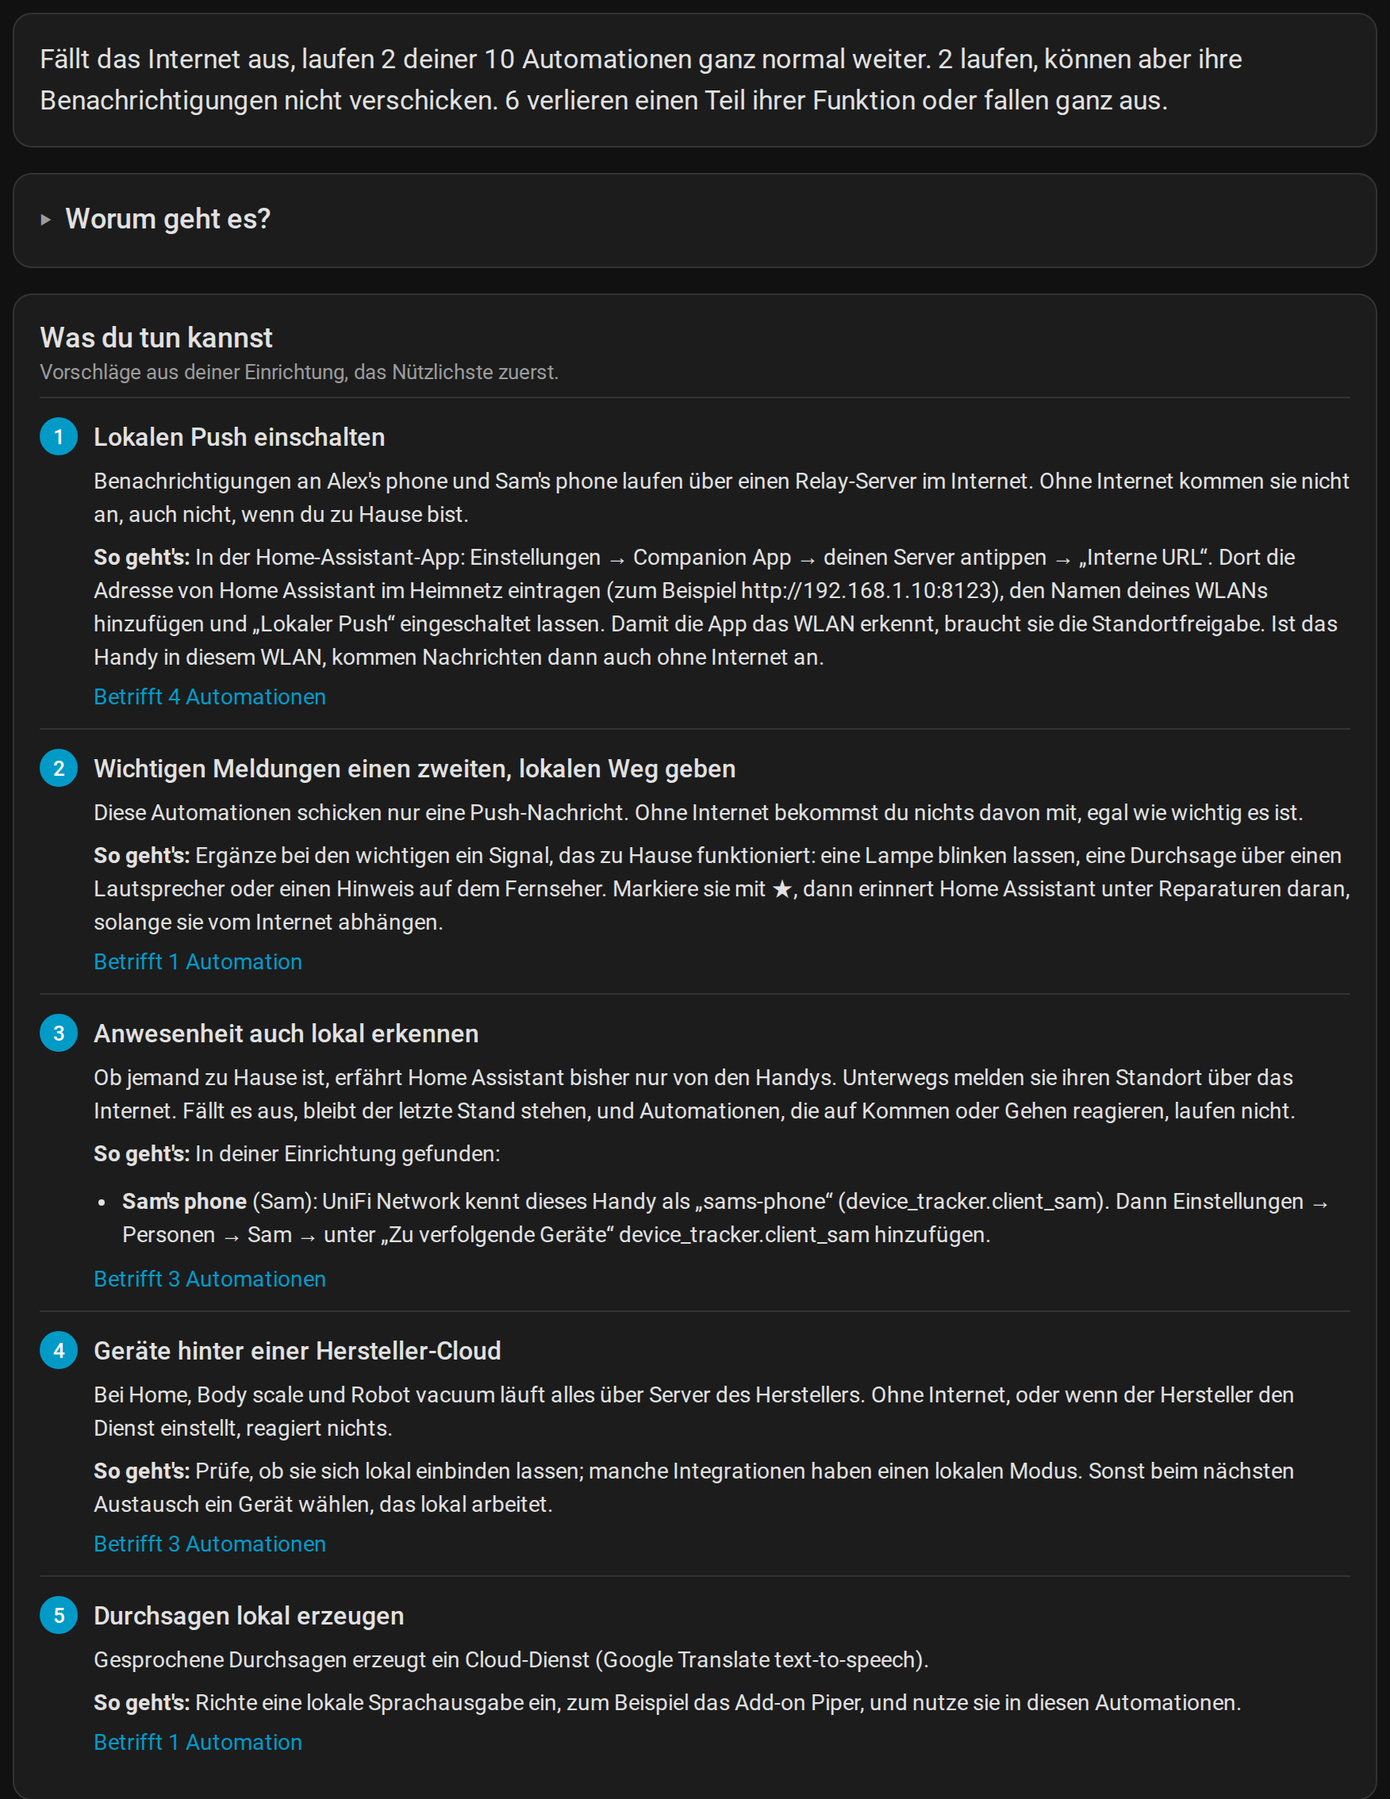
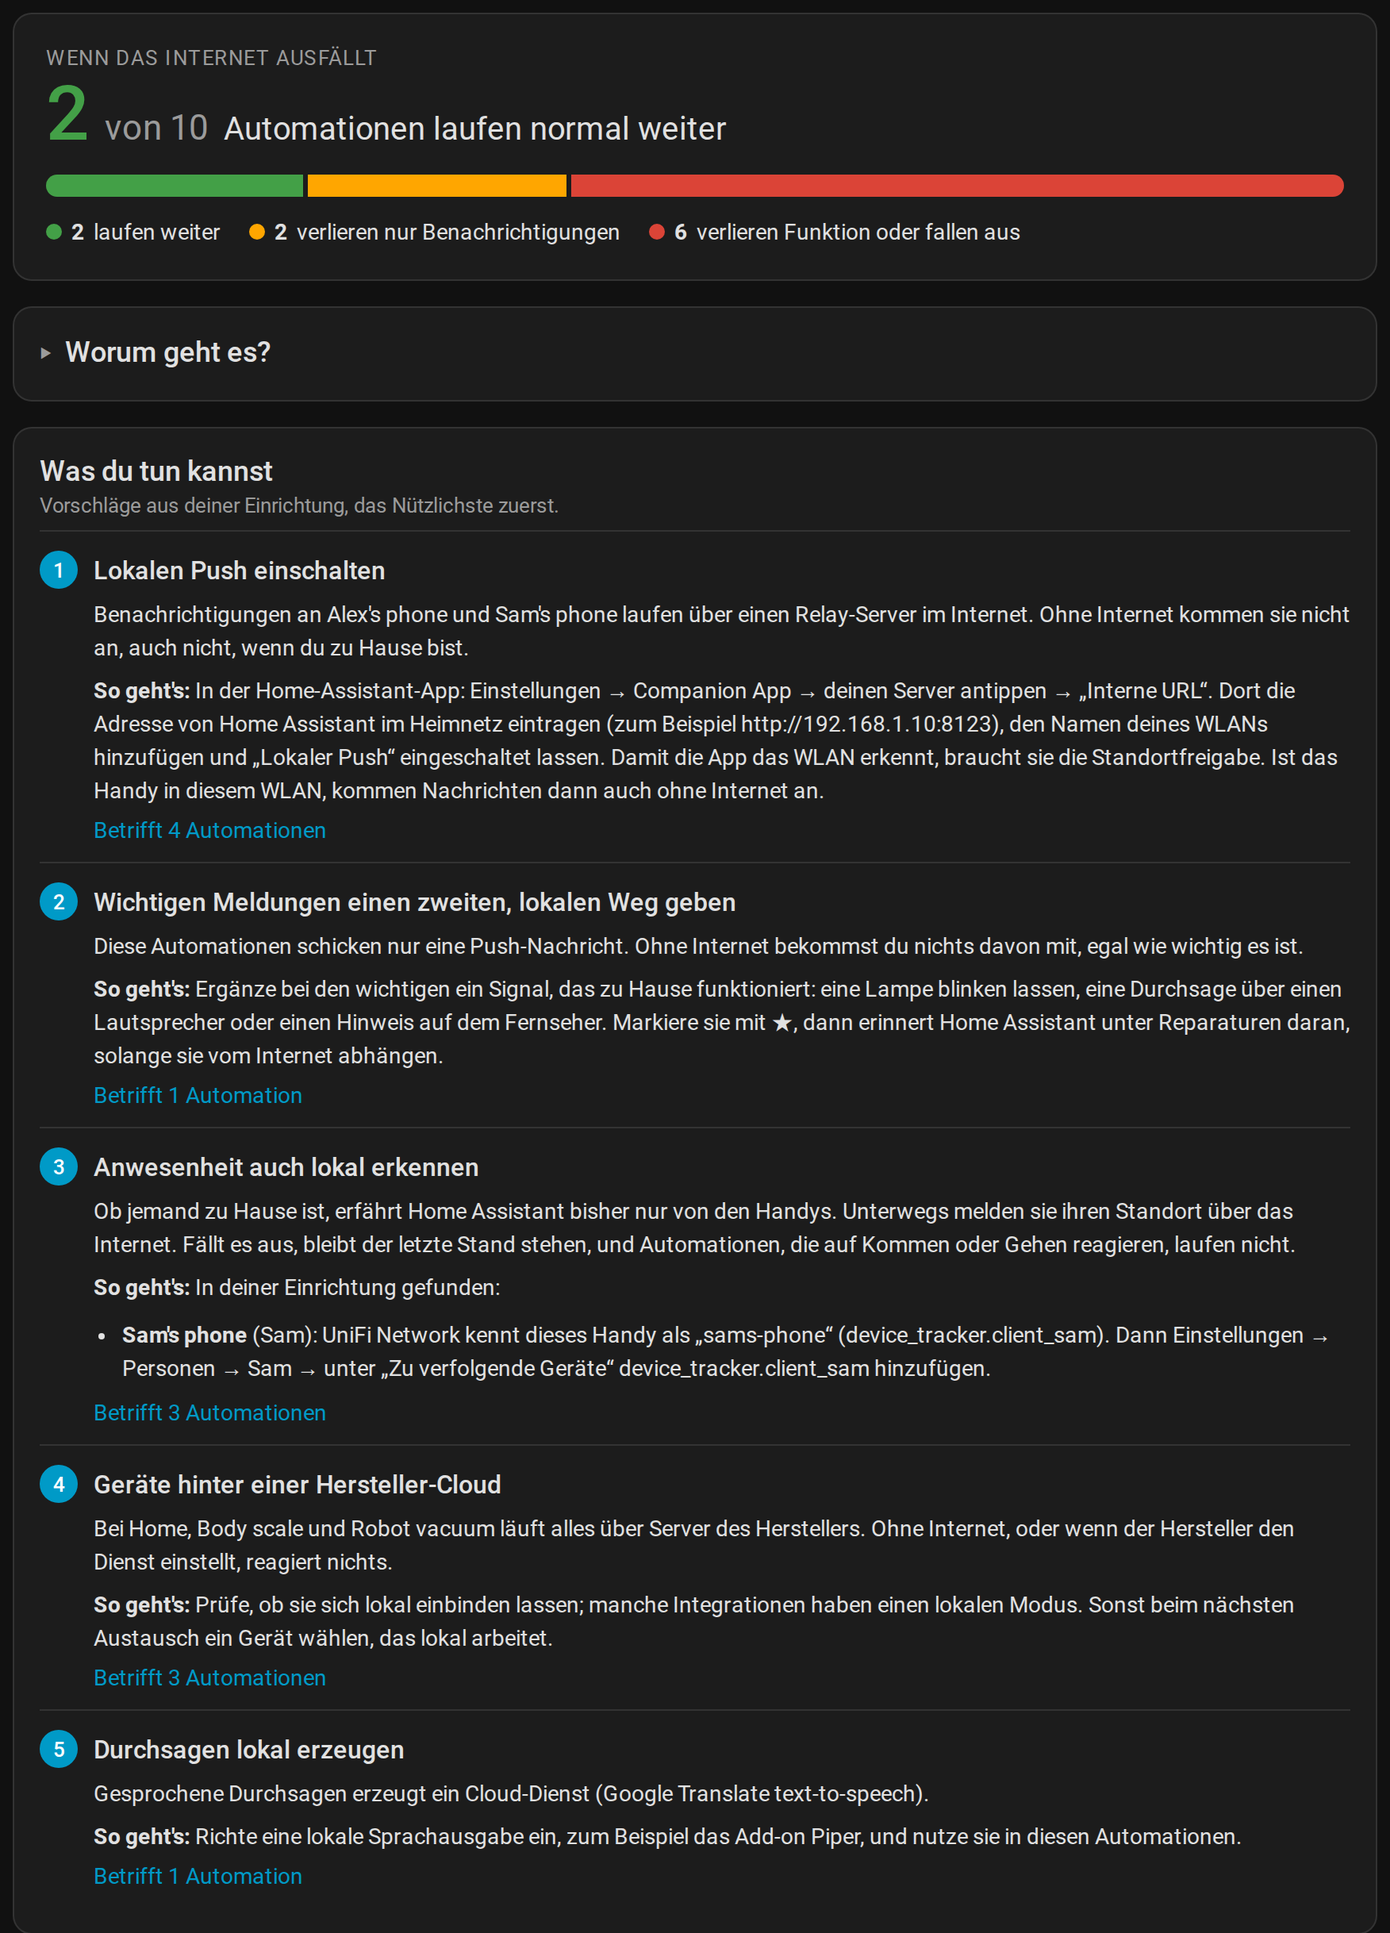
Show the overview as a number, a bar and a legend

Changed region(s): [[0.0308, 0.0, 0.9863, 0.9877]]

diff --git a/custom_components/unclouded/frontend/unclouded-panel.js b/custom_components/unclouded/frontend/unclouded-panel.js
@@ -29,10 +29,13 @@ const STRINGS = {
     decidedHint: "You classified these integrations yourself. You can change it here at any time.",
     integrationNoEntry: "entities without config entry",
     // Summary and explanation
-    summaryWorks: "If the internet goes down, {works} of your {total} automations keep working as usual.",
-    summaryNotify: "{n} still run but cannot send their notifications.",
-    summaryLoss: "{n} lose part of what they do or stop altogether.",
-    summaryUnknown: "{n} could not be checked completely.",
+    heroLabel: "If the internet goes down",
+    heroOf: "of {total}",
+    heroText: "automations keep working as usual",
+    legend_works: "keep working",
+    legend_notify: "only lose their notifications",
+    legend_loss: "lose function or stop",
+    legend_unknown: "not sure",
     summaryAllGood: "Everything runs inside your home. An internet outage does not affect your automations.",
     whatTitle: "What is this about?",
     whatText1:
@@ -162,10 +165,13 @@ const STRINGS = {
     decided: "Von dir festgelegt",
     decidedHint: "Diese Integrationen hast du selbst eingestuft. Hier kannst du es jederzeit ändern.",
     integrationNoEntry: "Entitäten ohne Einrichtung",
-    summaryWorks: "Fällt das Internet aus, laufen {works} deiner {total} Automationen ganz normal weiter.",
-    summaryNotify: "{n} laufen, können aber ihre Benachrichtigungen nicht verschicken.",
-    summaryLoss: "{n} verlieren einen Teil ihrer Funktion oder fallen ganz aus.",
-    summaryUnknown: "{n} ließen sich nicht vollständig prüfen.",
+    heroLabel: "Wenn das Internet ausfällt",
+    heroOf: "von {total}",
+    heroText: "Automationen laufen normal weiter",
+    legend_works: "laufen weiter",
+    legend_notify: "verlieren nur Benachrichtigungen",
+    legend_loss: "verlieren Funktion oder fallen aus",
+    legend_unknown: "unklar",
     summaryAllGood: "Alles läuft bei dir zu Hause. Ein Internetausfall betrifft deine Automationen nicht.",
     whatTitle: "Worum geht es?",
     whatText1:
@@ -398,24 +404,49 @@ class UncloudedPanel extends HTMLElement {
     return text.charAt(0).toUpperCase() + text.slice(1) + ".";
   }
 
+  // The overview: one big number, a bar split by what happens, and a legend that
+  // jumps to the first automation of each kind.
   _renderSummary() {
     const t = this._t;
     const all = this._automations;
-    const count = (fn) => all.filter(fn).length;
-    const works = count((a) => a.verdict === "works");
-    const notify = count((a) => a.only_notifications);
-    const unknown = count((a) => a.verdict === "unknown");
-    const loss = count((a) => ["fails", "degraded"].includes(a.verdict) && !a.only_notifications);
-    const lines =
-      works === all.length
-        ? [t.summaryAllGood]
-        : [
-            this._fmt(t.summaryWorks, { works, total: all.length }),
-            notify ? this._fmt(t.summaryNotify, { n: notify }) : "",
-            loss ? this._fmt(t.summaryLoss, { n: loss }) : "",
-            unknown ? this._fmt(t.summaryUnknown, { n: unknown }) : "",
-          ];
-    return `<p class="summary">${lines.filter(Boolean).map(esc).join(" ")}</p>`;
+    if (all.length && all.every((a) => a.verdict === "works"))
+      return `<section class="card hero"><p class="hero-good">${esc(t.summaryAllGood)}</p></section>`;
+    const kinds = {
+      works: (a) => a.verdict === "works",
+      notify: (a) => a.only_notifications,
+      loss: (a) => ["fails", "degraded"].includes(a.verdict) && !a.only_notifications,
+      unknown: (a) => a.verdict === "unknown",
+    };
+    const parts = Object.entries(kinds)
+      .map(([kind, fn]) => ({ kind, items: all.filter(fn) }))
+      .filter((p) => p.items.length);
+    const works = all.filter(kinds.works).length;
+    const bar = parts
+      .map(
+        (p) => `<span class="seg ${p.kind}" style="flex: ${p.items.length}"
+          title="${p.items.length} ${esc(t[`legend_${p.kind}`])}"></span>`
+      )
+      .join("");
+    const legend = parts
+      .map(
+        (p) => `
+        <button class="legend" data-jump="${esc(p.items[0].entity_id)}">
+          <span class="dot ${p.kind}"></span><strong>${p.items.length}</strong>
+          ${esc(t[`legend_${p.kind}`])}
+        </button>`
+      )
+      .join("");
+    return `
+      <section class="card hero">
+        <div class="hero-label">${esc(t.heroLabel)}</div>
+        <div class="hero-main">
+          <span class="big">${works}</span>
+          <span class="of">${esc(this._fmt(t.heroOf, { total: all.length }))}</span>
+          <span class="text">${esc(t.heroText)}</span>
+        </div>
+        <div class="bar">${bar}</div>
+        <div class="legends">${legend}</div>
+      </section>`;
   }
 
   _whatSeen() {
@@ -533,10 +564,12 @@ class UncloudedPanel extends HTMLElement {
       title="${esc(automation.important ? t.unmarkImportant : t.markImportant)}">${automation.important ? "★" : "☆"}</button>`;
     const row = `${star}<span class="name">${esc(automation.name)}</span>${flag}${link}`;
     const say = `<div class="say">${esc(this._say(automation))}</div>`;
-    if (!problems.length) return `<li class="automation"><div class="row">${row}</div>${say}</li>`;
+    const id = esc(automation.entity_id);
+    if (!problems.length)
+      return `<li class="automation" data-entity="${id}"><div class="row">${row}</div>${say}</li>`;
     const open = this._open.has(automation.entity_id) ? " open" : "";
     return `
-      <li class="automation">
+      <li class="automation" data-entity="${id}">
         <div class="row">${row}</div>
         ${say}
         <details class="tech" data-id="${esc(automation.entity_id)}"${open}>
@@ -552,13 +585,6 @@ class UncloudedPanel extends HTMLElement {
     const groups = Object.fromEntries(VERDICTS.map((v) => [v, []]));
     for (const a of this._automations) groups[a.verdict].push(a);
     const byName = (a, b) => a.name.localeCompare(b.name);
-    const tiles = VERDICTS.map(
-      (v) => `
-        <a class="tile ${v}${groups[v].length ? "" : " empty"}" href="#${v}">
-          <span class="count">${groups[v].length}</span>
-          <span>${esc(t[`verdict_${v}`])}</span>
-        </a>`
-    ).join("");
     const sections = VERDICTS.filter((v) => groups[v].length)
       .map(
         (v) => `
@@ -571,7 +597,7 @@ class UncloudedPanel extends HTMLElement {
         </section>`
       )
       .join("");
-    return `<div class="tiles">${tiles}</div>${sections}`;
+    return sections;
   }
 
   // Only offered where Unclouded could not find out anything by itself.
@@ -696,7 +722,7 @@ class UncloudedPanel extends HTMLElement {
     if (this._error) body = `<p class="error">${esc(t.error)}: ${esc(this._error)}</p>`;
     else if (this._automations)
       body =
-        `<section class="card">${this._renderSummary()}</section>` +
+        this._renderSummary() +
         this._renderWhat() +
         this._renderDecide() +
         this._renderAdvice() +
@@ -728,10 +754,14 @@ class UncloudedPanel extends HTMLElement {
       this._load();
     });
     // In-page links would change the panel's URL; scroll instead.
-    this.shadowRoot.querySelectorAll("a.tile").forEach((el) =>
-      el.addEventListener("click", (e) => {
-        e.preventDefault();
-        $(el.getAttribute("href"))?.scrollIntoView({ behavior: "smooth" });
+    // Jump to the first automation of a kind; in-page links would change the URL.
+    this.shadowRoot.querySelectorAll("button[data-jump]").forEach((el) =>
+      el.addEventListener("click", () => {
+        const row = this.shadowRoot
+          .querySelector(`[data-entity="${el.dataset.jump}"]`);
+        row?.scrollIntoView({ behavior: "smooth", block: "center" });
+        row?.classList.add("flash");
+        setTimeout(() => row?.classList.remove("flash"), 1600);
       })
     );
     $("#what-seen")?.addEventListener("click", () => {
@@ -776,20 +806,31 @@ const STYLE = `
   .card { display: block; background: var(--card-background-color, #fff); border-radius: var(--ha-card-border-radius, 12px);
     border: 1px solid var(--divider-color); padding: 16px; margin-bottom: 16px; }
   h2 { display: flex; align-items: center; gap: 8px; font-size: 18px; font-weight: 500; margin: 0 0 4px; }
-  .tiles { display: grid; grid-template-columns: repeat(4, 1fr); gap: 12px; margin-bottom: 16px; }
-  .tile { display: flex; flex-direction: column; gap: 2px; padding: 12px 16px; text-decoration: none;
-    color: var(--primary-text-color); background: var(--card-background-color, #fff);
-    border: 1px solid var(--divider-color); border-left: 4px solid; border-radius: var(--ha-card-border-radius, 12px); }
-  .tile .count { font-size: 28px; font-weight: 500; }
-  .tile.fails { border-left-color: var(--uc-fails); }
-  .tile.degraded { border-left-color: var(--uc-degraded); }
-  .tile.unknown { border-left-color: var(--uc-unknown); }
-  .tile.works { border-left-color: var(--uc-works); }
   .dot { width: 10px; height: 10px; border-radius: 50%; flex: none; }
   .dot.fails { background: var(--uc-fails); }
   .dot.degraded { background: var(--uc-degraded); }
   .dot.unknown { background: var(--uc-unknown); }
   .dot.works { background: var(--uc-works); }
+  .dot.notify { background: var(--uc-degraded); }
+  .dot.loss { background: var(--uc-fails); }
+  .card.hero { padding: 20px; }
+  .hero-label { font-size: 13px; text-transform: uppercase; letter-spacing: .06em; color: var(--secondary-text-color); }
+  .hero-main { display: flex; align-items: baseline; flex-wrap: wrap; gap: 4px 10px; margin: 4px 0 14px; }
+  .hero-main .big { font-size: 48px; font-weight: 500; line-height: 1; color: var(--uc-works); }
+  .hero-main .of { font-size: 22px; color: var(--secondary-text-color); }
+  .hero-main .text { font-size: 20px; }
+  .hero-good { font-size: 18px; margin: 0; }
+  .bar { display: flex; gap: 3px; height: 14px; border-radius: 7px; overflow: hidden; }
+  .seg.works { background: var(--uc-works); }
+  .seg.notify { background: var(--uc-degraded); }
+  .seg.loss { background: var(--uc-fails); }
+  .seg.unknown { background: var(--uc-unknown); }
+  .legends { display: flex; flex-wrap: wrap; gap: 6px 18px; margin-top: 12px; }
+  button.legend { font: inherit; font-size: 14px; display: inline-flex; align-items: center; gap: 6px;
+    border: 0; padding: 2px 0; background: transparent; color: var(--primary-text-color); cursor: pointer; }
+  button.legend:hover { text-decoration: underline; }
+  li.automation.flash { animation: flash 1.6s ease-out; }
+  @keyframes flash { from { background: var(--secondary-background-color); } to { background: transparent; } }
   ul { list-style: none; padding: 0; margin: 8px 0 0; }
   li.automation { padding: 8px 0; border-top: 1px solid var(--divider-color); }
   .row { display: flex; align-items: baseline; gap: 6px 8px; flex-wrap: wrap; }
@@ -800,7 +841,6 @@ const STYLE = `
   summary::-webkit-details-marker { display: none; }
   details.tech > summary::before { content: "▸ "; }
   details.tech[open] > summary::before { content: "▾ "; }
-  .tile.empty { opacity: .55; }
   button.star { font: inherit; font-size: 18px; line-height: 1; border: 0; background: transparent;
     padding: 0 2px; cursor: pointer; color: var(--secondary-text-color); align-self: center; }
   button.star.on { color: var(--warning-color, #ff9800); }
@@ -861,8 +901,7 @@ const STYLE = `
   .error { color: var(--uc-fails); }
   @media (max-width: 600px) {
     main { padding: 8px; }
-    .tiles { grid-template-columns: repeat(2, 1fr); }
-    .part { min-width: 0; margin-right: 4px; }
+      .part { min-width: 0; margin-right: 4px; }
   }
 `;
 

diff --git a/docs/anleitung.md b/docs/anleitung.md
@@ -18,8 +18,10 @@ Ergebnissen kommt. Einen kurzen Überblick und die Installation gibt es in der
 
 Öffne **Unclouded** in der Seitenleiste. Nur Administratoren sehen es. Von oben nach unten:
 
-1. **Fazit:** ein Satz dazu, wie viele Automationen ohne Internet weiterlaufen, wie viele nur
-   ihre Benachrichtigungen verlieren und wie viele echte Funktionen verlieren.
+1. **Übersicht:** wie viele Automationen ohne Internet weiterlaufen, als große Zahl und als
+   Balken, aufgeteilt in laufen weiter, verlieren nur Benachrichtigungen, verlieren Funktion
+   oder fallen aus, und unklar. Ein Klick auf einen Eintrag der Legende springt zur ersten
+   Automation dieser Art.
 2. **Worum geht es?** Eine kurze Erklärung, beim ersten Besuch aufgeklappt. **Verstanden**
    schließt sie in diesem Browser dauerhaft.
 3. **Bitte festlegen** (nur wenn nötig): Integrationen, die nicht angeben, wie sie sich
@@ -29,8 +31,7 @@ Ergebnissen kommt. Einen kurzen Überblick und die Installation gibt es in der
 4. **Was du tun kannst:** Vorschläge aus deiner Einrichtung, das Nützlichste zuerst. Jeder
    sagt, warum er wichtig ist und wie es geht; **Betrifft … Automationen** zeigt die
    Automationen, denen er hilft.
-5. **Kacheln und Listen der Automationen**, sortiert danach, was ohne Internet mit ihnen
-   passiert. Jede Automation hat einen Satz zur Begründung, **Öffnen ›** führt in den
+5. **Listen der Automationen**, sortiert danach, was ohne Internet mit ihnen passiert. Jede Automation hat einen Satz zur Begründung, **Öffnen ›** führt in den
    Automationseditor, und **Technische Details** zeigt jeden Auslöser, jede Bedingung und
    jede Aktion, die Internet braucht, mit der Integration dahinter und dem Grund.
 6. **Integrationen:** jede eingerichtete Integration mit ihrer Einstufung und dem Grund.

diff --git a/docs/guide.md b/docs/guide.md
@@ -17,8 +17,10 @@ short overview and the installation see the [README](../README.md).
 
 Open **Unclouded** in the sidebar. Only admins see it. From top to bottom:
 
-1. **Summary:** one sentence on how many automations keep working without the internet,
-   how many only lose their notifications and how many lose real function.
+1. **Overview:** how many automations keep working without the internet, as a big number
+   and a bar split into keep working, only lose their notifications, lose function or stop,
+   and not sure. A click on an entry of the legend jumps to the first automation of that
+   kind.
 2. **What is this about?** A short explanation, open on the first visit. **Got it** closes it
    for good in this browser.
 3. **Please decide** (only if needed): integrations that do not say how they connect. If you
@@ -27,7 +29,7 @@ Open **Unclouded** in the sidebar. Only admins see it. From top to bottom:
 4. **What you can do:** suggestions worked out from your setup, the most useful first. Each
    says why it matters and how to do it; **Concerns … automations** lists the automations it
    would help.
-5. **Tiles and lists of automations**, grouped by what happens to them without the internet.
+5. **Lists of automations**, grouped by what happens to them without the internet.
    Each automation has one sentence that says why, **Open ›** goes to the automation editor
    and **Technical details** lists every trigger, condition and action that needs the
    internet, with the integration behind it and the reason.

diff --git a/README.de.md b/README.de.md
@@ -17,7 +17,7 @@ du tun kannst, damit das Wichtige weiter funktioniert.
 **Neu hier?** Die [Anleitung](docs/anleitung.md) erklärt das Panel Schritt für Schritt und
 wie Unclouded zu seinen Ergebnissen kommt.
 
-<p align="center"><picture><source media="(prefers-color-scheme: dark)" srcset="docs/screenshots/overview-de-dark.png"><img src="docs/screenshots/overview-de.png" width="720" alt="Fazit und Vorschläge"></picture></p>
+<p align="center"><picture><source media="(prefers-color-scheme: dark)" srcset="docs/screenshots/overview-de-dark.png"><img src="docs/screenshots/overview-de.png" width="720" alt="Übersicht und Vorschläge"></picture></p>
 
 ## Warum
 
@@ -58,8 +58,8 @@ klaren Worten, was du ändern kannst.
 
 ## So funktioniert es
 
-1. Öffne **Unclouded** in der Seitenleiste. Das Fazit oben sagt, wie viele Automationen ohne
-   Internet weiterlaufen.
+1. Öffne **Unclouded** in der Seitenleiste. Die Übersicht oben zeigt, wie viele Automationen
+   ohne Internet weiterlaufen und was mit den anderen passiert.
 2. **Was du tun kannst** listet Vorschläge, das Nützlichste zuerst, jeweils mit Warum und
    So geht's.
 3. Darunter steht jede Automation danach sortiert, was mit ihr passiert, mit einem Satz zur

diff --git a/README.md b/README.md
@@ -17,7 +17,7 @@ can do so that the important things keep working.
 **New here?** The [guide](docs/guide.md) explains the panel step by step and how Unclouded
 comes to its results.
 
-<p align="center"><picture><source media="(prefers-color-scheme: dark)" srcset="docs/screenshots/overview-dark.png"><img src="docs/screenshots/overview.png" width="720" alt="Summary and suggestions"></picture></p>
+<p align="center"><picture><source media="(prefers-color-scheme: dark)" srcset="docs/screenshots/overview-dark.png"><img src="docs/screenshots/overview.png" width="720" alt="Overview and suggestions"></picture></p>
 
 ## Why
 
@@ -56,8 +56,8 @@ words, what you can change.
 
 ## How it works
 
-1. Open **Unclouded** in the sidebar. The summary at the top says how many automations
-   keep working without the internet.
+1. Open **Unclouded** in the sidebar. The overview at the top shows how many automations
+   keep working without the internet and what happens to the others.
 2. **What you can do** lists suggestions, the most useful first, each with why it matters
    and how to do it.
 3. Below, every automation is listed by what happens to it, with one sentence that says

diff --git a/CHANGELOG.md b/CHANGELOG.md
@@ -7,8 +7,8 @@ and the project uses [Semantic Versioning](https://semver.org/).
 ## Unreleased
 
 ### Added
-- Sidebar panel that shows what in Home Assistant still works without the internet: a
-  summary, one sentence per automation, technical details and the classification of every
+- Sidebar panel that shows what in Home Assistant still works without the internet: an
+  overview with a bar split by what happens, one sentence per automation, technical details and the classification of every
   integration, in English and German.
 - Suggestions worked out from the setup: local push, a second local way for push-only
   alerts, local presence detection with the matching router entry for each phone, devices
